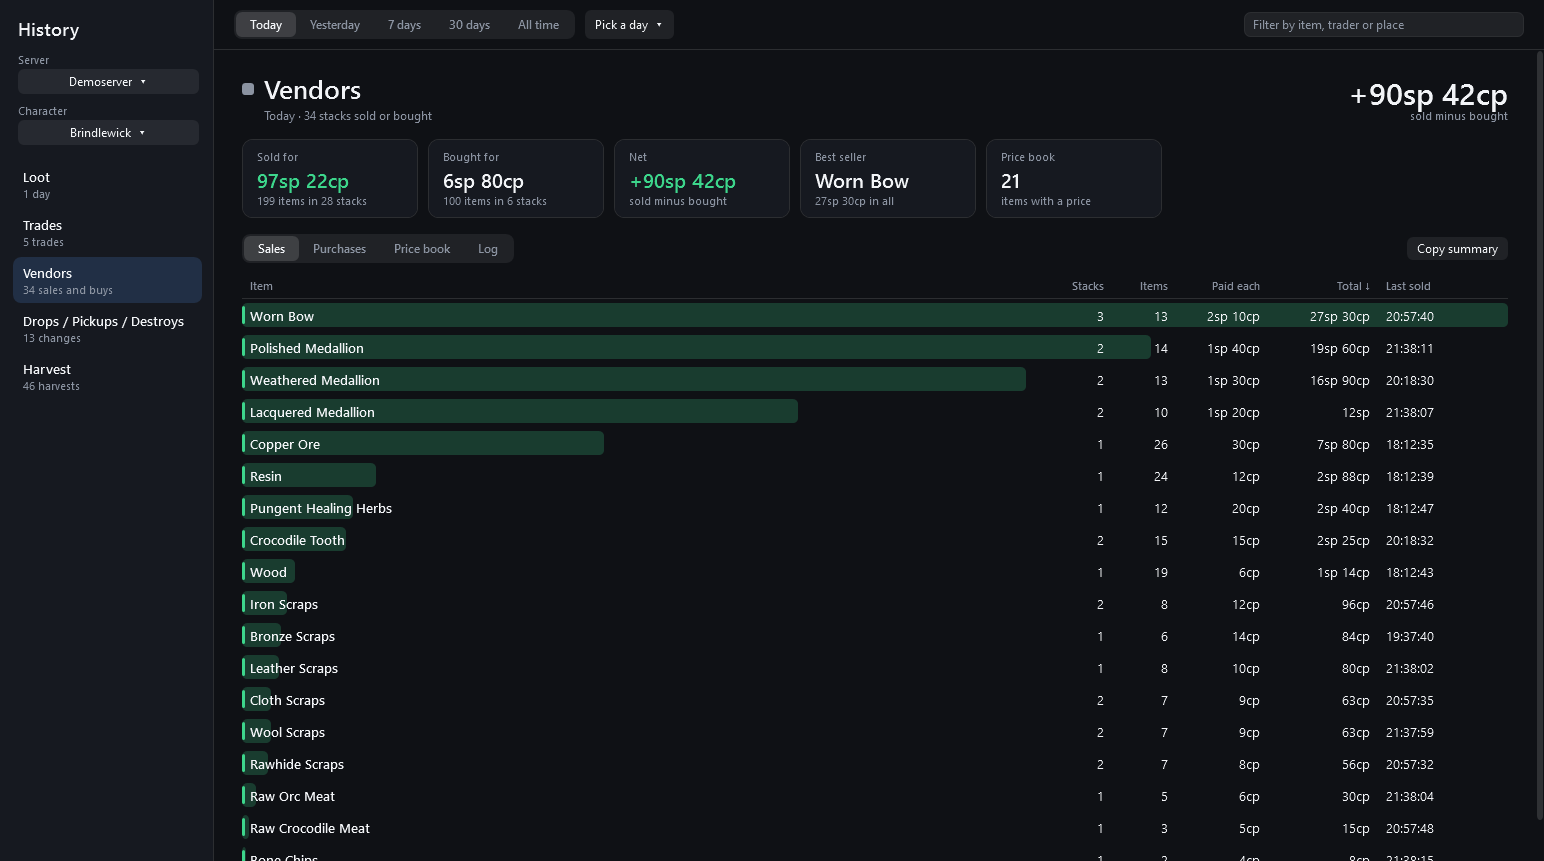
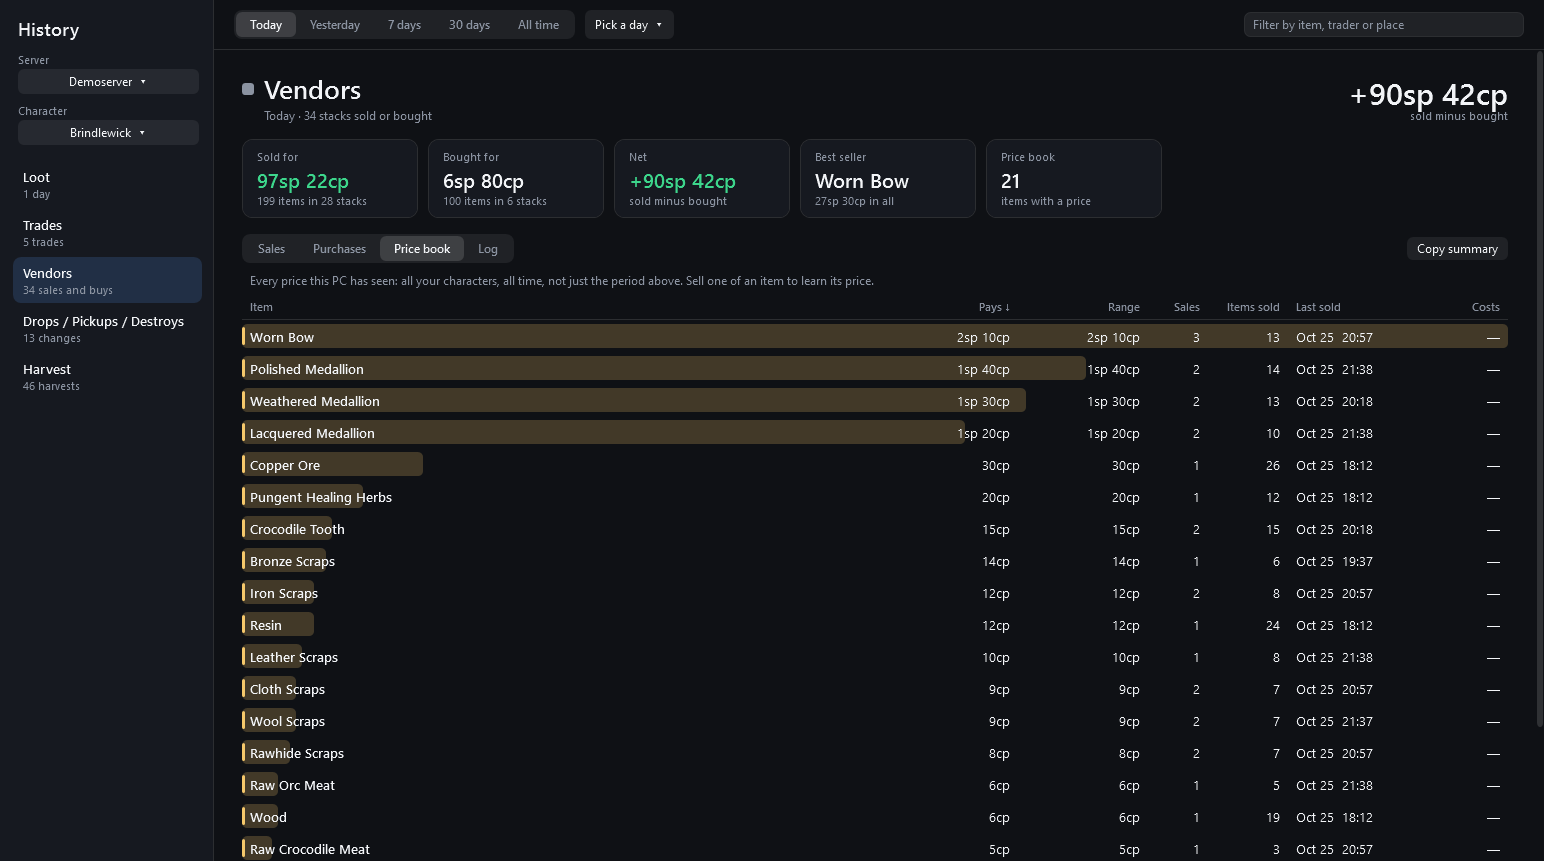
Pictures: remake them all, add the sharing window, fix the price-book picture
--snapshot <png> --share draws the sharing window (as a player who said Yes sees
it) from the demo ledger. The History picture mode now shows the page it was asked
for before picking a tab, which is why the price-book picture showed the Sales tab
(the window only picks its page once it has loaded). The update-banner picture
offers 0.4.0 to a 0.3.0 install. "1 weekly rows" reads "1 weekly row".

Changed region(s): [[0.1554, 0.2718, 0.9948, 1.0], [0.9948, 0.8455, 1.0, 0.9663], [0.8083, 0.9965, 0.8394, 1.0]]

diff --git a/src/MnMCompanion/App.xaml.cs b/src/MnMCompanion/App.xaml.cs
@@ -249,9 +249,39 @@ public partial class App : Application
                 }
                 else
                 {
+                    window.ShowPage(page);   // the window picks its page only once it has loaded; a picture can't wait for that
                     if (args.Period is { } period) window.SetPeriod(period);
                     window.DrawNow();
                     if (args.Tab is { } tab) window.PickTab(tab);
+                }
+                Dispatcher.Invoke(() => { }, System.Windows.Threading.DispatcherPriority.ApplicationIdle);
+                RenderVisual(window, (int)window.ActualWidth, (int)window.ActualHeight, path);
+                window.Close();
+            }
+            finally
+            {
+                foreach (var file in new[] { scratch, scratch + "-wal", scratch + "-shm" })
+                    try { File.Delete(file); } catch (IOException) { }
+            }
+            return;
+        }
+        if (args.Share)
+        {
+            // The sharing window as a player who said Yes sees it, with what would be shared worked out from the ledger it was pointed at
+            var scratch = Path.Combine(Path.GetTempPath(), "mnmcompanion-snapshot-" + Guid.NewGuid().ToString("N") + ".db");
+            try
+            {
+                using var history = new HistoryData(() => _store.LedgerRoot, scratch, automatic: false);
+                history.RefreshNow();
+                var settings = new Settings { ReadOnly = true, ShareWithCommunity = true, ShareConsentSchema = Community.ContributionBuilder.Schema };
+                var window = new ShareWindow(history, settings, "MnMCompanion " + AppVersion.Show(AppVersion.Current()), ShareMode.Settings)
+                    { ShowActivated = false, ShowInTaskbar = false, WindowStartupLocation = WindowStartupLocation.Manual, Left = -20000, Top = 0 };
+                window.Show();
+                var until = DateTime.UtcNow.AddSeconds(15);
+                while (!window.PreviewReady && DateTime.UtcNow < until)
+                {
+                    Dispatcher.Invoke(() => { }, System.Windows.Threading.DispatcherPriority.Background);
+                    Thread.Sleep(30);
                 }
                 Dispatcher.Invoke(() => { }, System.Windows.Threading.DispatcherPriority.ApplicationIdle);
                 RenderVisual(window, (int)window.ActualWidth, (int)window.ActualHeight, path);
@@ -270,7 +300,7 @@ public partial class App : Application
             // The same window the player sees, update button included; nothing is checked or downloaded
             var updates = new UpdateController(new Settings { ReadOnly = true });
             if (args.PreviewUpdate)
-                updates.Preview(new UpdateOffer(new Version(0, 2, 0), "v0.2.0", "Faster refresh, a Harvest tab and a few fixes.", UpdateService.ReleasesUrl, "", "", 0));
+                updates.Preview(new UpdateOffer(new Version(0, 4, 0), "v0.4.0", "A few fixes and a cleaner look.", UpdateService.ReleasesUrl, "", "", 0));
             // The saved history for the Vendor, Trades, Items and Harvest pages is built into a scratch file for the picture (not the player's own)
             var scratch = Path.Combine(Path.GetTempPath(), "mnmcompanion-snapshot-" + Guid.NewGuid().ToString("N") + ".db");
             try

diff --git a/src/MnMCompanion.Core/Community/Contribution.cs b/src/MnMCompanion.Core/Community/Contribution.cs
@@ -225,7 +225,7 @@ public static class ContributionBuilder
             $"{t.Monsters:N0} kinds of monster, from {t.Corpses:N0} looted corpses: what came off each, how often, and the coin in their purses",
             $"Running totals, counted by week (only which week, never a day or a time): {n.Corpses:N0} corpses looted, {n.Units:N0} items and {LootSummary.Coin(n.Copper)} taken from them, " +
                 $"{n.Harvests:N0} harvests, {n.Sold:N0} stacks sold for {LootSummary.Coin(n.SoldCopper)}, {n.Bought:N0} bought for {LootSummary.Coin(n.BoughtCopper)}, {n.Trades:N0} trades with players " +
-                $"({c.Counts.Weeks.Count:N0} weekly rows)",
+                $"({c.Counts.Weeks.Count:N0} weekly {(c.Counts.Weeks.Count == 1 ? "row" : "rows")})",
             $"{c.Prices.Count:N0} item prices by zone, from {t.Sales:N0} sales and {t.Purchases:N0} purchases",
             $"{c.Harvest.Count:N0} things gathered by zone, from {t.Harvests:N0} harvests",
             $"{t.Items:N0} item names with their game ids",

diff --git a/src/MnMCompanion/ShareWindow.cs b/src/MnMCompanion/ShareWindow.cs
@@ -41,6 +41,9 @@ internal sealed class ShareWindow : Window
     private Contribution? _contribution;
     private bool _loading = true;
 
+    /// <summary>The preview of what would be shared has been worked out and is on show (for drawing a picture of the window).</summary>
+    internal bool PreviewReady => _contribution is not null;
+
     /// <param name="yes">Ask mode only: called when the player presses Yes.</param>
     public ShareWindow(HistoryData history, Settings settings, string app, ShareMode mode, Action? yes = null)
     {
